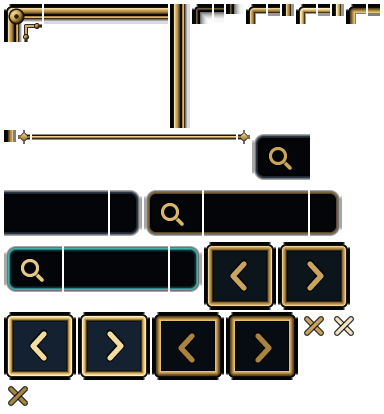
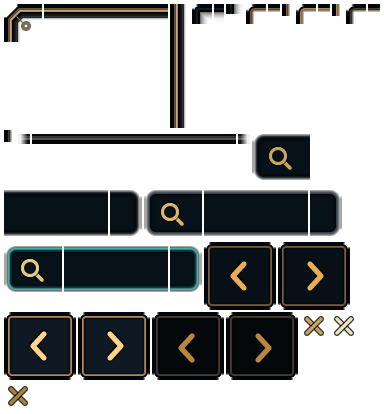
style(theme): match the concept's colours and frame: thin gold line, steel inner line, bronze button rims

diff --git a/decal-plugin/LegACEy.Client.Themes/Dereth/DerethSheet.cs b/decal-plugin/LegACEy.Client.Themes/Dereth/DerethSheet.cs
@@ -42,12 +42,12 @@ internal static class DerethSheet
 
     private static readonly Dictionary<(DerethFrameArt Art, DerethState State), NineSlice> Frames = new()
     {
-        [(DerethFrameArt.Window, DerethState.Normal)] = new NineSlice(FrameCorner, FrameTop, FrameLeft, Color.Parse("#0A1219")),
-        [(DerethFrameArt.Slot, DerethState.Normal)] = new NineSlice(SlotCorner, SlotTop, SlotLeft, Color.Parse("#05090E")),
+        [(DerethFrameArt.Window, DerethState.Normal)] = new NineSlice(FrameCorner, FrameTop, FrameLeft, Color.Parse("#081016")),
+        [(DerethFrameArt.Slot, DerethState.Normal)] = new NineSlice(SlotCorner, SlotTop, SlotLeft, Color.Parse("#02070B")),
         // Button frame: close box, text buttons and the header icon. Corner 8 DIP, edges 4 DIP.
-        [(DerethFrameArt.Button, DerethState.Normal)] = new NineSlice(new(248, 6, 16, 16), new(270, 6, 8, 8), new(284, 6, 8, 8), Color.Parse("#0C141C")),
-        [(DerethFrameArt.Button, DerethState.Hover)] = new NineSlice(new(298, 6, 16, 16), new(320, 6, 8, 8), new(334, 6, 8, 8), Color.Parse("#142130")),
-        [(DerethFrameArt.Button, DerethState.Pressed)] = new NineSlice(new(348, 6, 16, 16), new(370, 6, 8, 8), new(6, 132, 8, 8), Color.Parse("#070C12")),
+        [(DerethFrameArt.Button, DerethState.Normal)] = new NineSlice(new(248, 6, 16, 16), new(270, 6, 8, 8), new(284, 6, 8, 8), Color.Parse("#071016")),
+        [(DerethFrameArt.Button, DerethState.Hover)] = new NineSlice(new(298, 6, 16, 16), new(320, 6, 8, 8), new(334, 6, 8, 8), Color.Parse("#0E1923")),
+        [(DerethFrameArt.Button, DerethState.Pressed)] = new NineSlice(new(348, 6, 16, 16), new(370, 6, 8, 8), new(6, 132, 8, 8), Color.Parse("#03070A")),
     };
 
     // Search field per state: left cap (carries the magnifier), stretched middle, right cap. 25 DIP tall.

diff --git a/decal-plugin/LegACEy.Client.Themes/Dereth/DerethParts.cs b/decal-plugin/LegACEy.Client.Themes/Dereth/DerethParts.cs
@@ -21,7 +21,7 @@ public static class DerethPalette
     public static readonly Color Invalid = Color.Parse("#D9584A");
     public static readonly Color Groove = Color.Parse("#05080C");
     public static readonly Color GrooveEdge = Color.Parse("#2A3542");
-    public static readonly Color Navy = Color.Parse("#0A1219");
+    public static readonly Color Navy = Color.Parse("#081016");
     /// <summary>The selection colour: a selected slot's wash, border and glow.</summary>
     public static readonly Color Teal = Color.Parse("#3FB3AE");
     /// <summary>Teal text, such as the "N selected" line.</summary>
